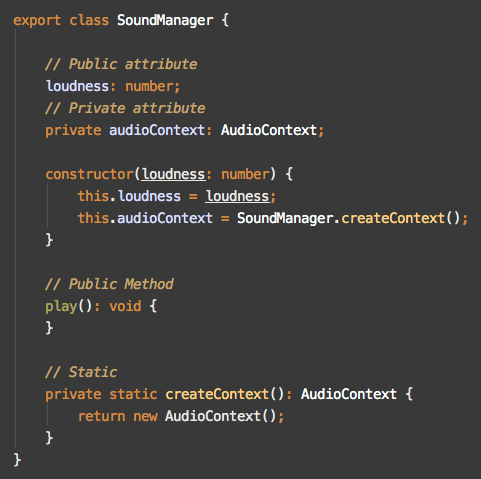
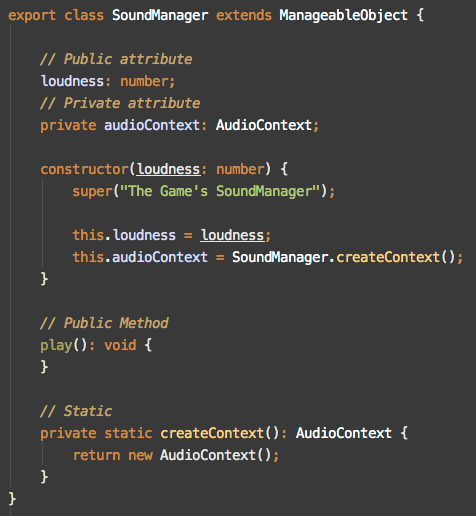
next version

diff --git a/slides/jsunconf-types.html b/slides/jsunconf-types.html
@@ -380,16 +380,22 @@ var olli: HasName = new Person('Olli', 43);</code></pre>
        </section>
       <section>
         <h2>Recap: Classes in JavaScript</h2>
-        <pre><code class="javascript" contenteditable>function Ball(config) {
-  this.position = config.position;
-  this.r = config.r;
-  this.color = config.color;
+        <pre><code class="javascript" contenteditable>function SoundManager(loudness) {
+  ManageableObject.call(this, "The Game's SoundManager");
+  this.loudness = loudness;
+
+  // private
+  var audioContext = SoundManager.createContext();
 }
+// Prototype Inheritance
+_extends(SoundManager, ManageableObject);
+// Static
+SoundManager.createContext = function() { ... }
+// Instance member
+SoundManager.prototype.play = function() { ... }
 
-Ball.prototype.draw = function() { ... }
-
-var ball = new Ball();
-ball.draw();
+var soundManager = new SoundManager('very loud'); // => Correct?
+soundManager.play();
         </code></pre>
        </section>
 
@@ -418,14 +424,14 @@ ball.draw();
   var canvas;
 
   // Is this 'public' or 'private'???
-  function Canvas() {
+  function KeyboardObserver() {
   }
   // Is this 'public' or 'private'???
-  function Ball(config) {
+  function SoundManager(config) {
   }
 
   // export public members
-  gamelib.Ball = Ball;
+  gamelib.SoundManager = SoundManager;
   gamelib.canvas = canvas;
 })();
   </code></pre>
